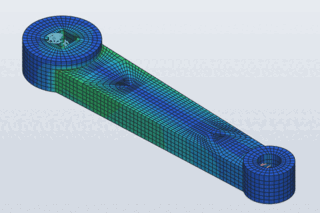
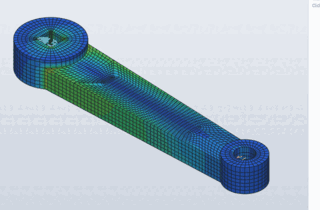
Docs: the crank's one-datum workflow, its gallery images and the Decompose status
examples.md and mcp.md tell the one-datum workflow and its numbers; the
crank gallery captures and Start card thumbnails are taken again on this
build; ROADMAP marks the automatic blocks of extruded cross-sections done,
and features.md's Decompose entry says what is left (3D parts).

Claude-Session: https://claude.ai/code/session_01UhhZMBTviDQxZvwnyP89fo

Changed region(s): [[0.0312, 0.0571, 0.9375, 0.9714], [0.9375, 0.2571, 1.0, 1.0]]

diff --git a/crates/engine/src/catalogue.rs b/crates/engine/src/catalogue.rs
@@ -325,7 +325,14 @@ pub static CATALOGUE: &[Capability] = &[
         "One mesh of a partitioned part, a method per cell (hex, tet, or all hex as conforming blocks); cells joined across partitions",
         &["mesh.hex.blocks"],
     ),
-    soon("mesh.hex.decompose", "Decompose", Mesh, "Structured Hex", "M5", "Find sweepable and mappable regions and propose the splits"),
+    soon(
+        "mesh.hex.decompose",
+        "Decompose",
+        Mesh,
+        "Structured Hex",
+        "M5",
+        "Find sweepable and mappable regions of 3D parts (extruded cross-sections are already cut into blocks by Hex Mesh)",
+    ),
     soon("mesh.transition", "Transition", Mesh, "Structured Hex", "M5", "Conforming tet–hex interfaces with pyramids"),
     ready(
         "mesh.hex.octree",

diff --git a/ROADMAP.md b/ROADMAP.md
@@ -31,7 +31,7 @@ pressure) is a degree of freedom of the existing DOF framework, not a separate s
 | M2 Tet meshing and size field | Size field (global, curvature and proximity; edge seeds done: `mesh.seed.edge` on persistent design edge names (`<face>|<face>`) with a count or size, geometric bias and an exact, min or free constraint, shown as ticks and under Mesh › Seeds, honoured by the hex sweep, extrude, revolve, mapped, blocks and cells meshers through interval assignment (conflicting exact seeds named) and by the tet mesher, which divides the edge at the seed's nodes and grades its size field from them; per-face seeds to do; the `fieldcraft_mesh::size::SizeField` trait and edge-division helpers are in); Bowyer–Watson Delaunay (exact, symbolic perturbation, verified; `fieldcraft-mesh::delaunay`, done); robust CDT boundary recovery (Diazzi et al. 2023: implicit LNC Steiner points on segments, gift-wrapping facet recovery, inside/outside labelling, B-rep face tags on boundary tet faces, flip repair of rounding (§5.1) checked by the validity gate; `fieldcraft-mesh::cdt` and `mesh.tet.generate`, done: all 20 valid corpus parts); quality stage (done: `fieldcraft-mesh::tet` — curvature-graded size field, edge-collapse coarsening, constrained Delaunay refinement with boundary points on the B-rep faces and curves, ODT smoothing, Klingner–Shewchuk improvement, tet4 and tet10 with mid-side nodes on the B-rep, quality report; one validity criterion shared by the gate and both solvers; the filleted-bracket fillet stress converges, tests/oracle); mesh verify per set | in progress |
 | M3 First deck | Sets and surfaces bound to SolidCraft face, edge, vertex and body names, resolved after meshing; materials (isotropic and orthotropic elastic, density) with a unit-system label and consistency check; sections (solid, shell, beam profiles) assigned by set; element formulation per region mapped to each solver; BCs (fixed, displacement, symmetry); loads (force and moment on reference points, pressure, gravity); reference points with kinematic and distributing coupling; steps (linear static, frequency) with explicit per-step load and BC tables and output presets; `model.check` naming every missing or bad item; `model.*` and `mesh.tag` commands (model definition: done); writers for Abaqus input (done: `deck.write`), Nastran SOL 101/103 (done: `deck.write`) and LS-DYNA implicit (done); the `.fieldcraft` file (text definition, binary mesh, geometry references reopened on load, journal; atomic saves, autosave and recovery; undo/redo on the journal: done) | in progress |
 | M4 Own solver and first results | Element library per docs/elements.md (1D and 2D first); Linear static and modal solver (tet4/10, wedge6, hex8, hex20; sparse direct, Lanczos), verified against analytic solutions (solver: done — `fieldcraft-fem` kernels, `fieldcraft-solver` with nested dissection, sparse Cholesky and block Lanczos, `solve.static`/`solve.frequency`/`solve.probe`, patch, cantilever, Lamé, Kirsch and beam-frequency tests; reference points with kinematic and distributing couplings and moments by master–slave constraint elimination, verified by rigid motion, clamping, Saint-Venant tension, bending and tube torsion; 1D elements I: rod2/rod3 trusses, point masses, rotary inertia, springs and dashpots in both solvers and all three decks, verified by the method of joints, the three-bar truss, spring–mass, two-mass chain and torsional pendulum frequencies, and damped decay; 2D elements: plane stress, plane strain and axisymmetric tri3, tri6, quad4 (incompatible modes QM6), quad8 with two degrees of freedom per node, centrifugal loads, `mesh.planar` 2D meshes of polygons and planar faces, verified by patch tests, Kirsch, Lamé (plane strain and axisymmetric), rotating discs and cylinders, and a plane stress cantilever; deck mapping to Abaqus CPS/CPE/CAX, Nastran membranes, LS-DYNA ELFORM 12/13); shells and beams (done: quad4 MITC4 and tri3 MITC3 flat shells with a Hughes–Brezzi drilling rotation, two-node Timoshenko beams with profile properties and orientations, six degrees of freedom at shell and beam nodes shared with solids and trusses, section forces and surface stresses, verified by shell patch tests, Navier's plate, cantilever and portal-frame beams, and the Scordelis–Lo and pinched-cylinder benchmarks); results display (done: `results.*` commands, deformed shape to scale, banded contours of displacement, von Mises, principal and component stresses with a legend, mode shapes with their frequencies and animation, probing a node by clicking it, reaction force and moment sums per set, stale results marked after an edit; explicit steps: field frames by slider or animation with contours per frame, energy histories plotted) | started |
-| M5 Structured hex | 2D quad meshing of faces (`fieldcraft-mesh::quad`: transfinite mapped meshes, free all-quad meshes of polygons with holes on prescribed boundary nodes, exact planar quad validity, shared `SizeField` and even edge divisions; done for planar faces); mapped hex of six-sided regions (trivariate TFI, curved faces) and sweep meshing (multi-level extrusions with imprinted cross-sections, revolutions, one-to-one sweeps through linking faces; interval assignment, hex8/hex20 on the geometry, B-rep face tags, `mesh.hex.generate`/`sweep`/`mapped`: done, 16 of 21 corpus parts all-hex); conforming interfaces between cells (done: `mesh.hex.blocks` meshes a part split with SolidCraft's Split Body into mapped blocks as one conforming mesh — composite faces for seams and tangent faces, interval assignment over all cells, shared faces meshed once, grading off holes and fillets, free-internal-face check; the filleted bracket in 30 cells, hex20 within 0.1 % of a fine tet10 tip deflection); partitions inside FieldCraft (done: datum planes and axes, `geometry.partition` cuts the open design by a datum plane, kept in the model and replayed when the design opens, the two faces of each cut paired by name); cells meshed each with its own method into one mesh (done: `mesh.cells` — hex where a method fits, else tet; matching interfaces merged node for node, others, such as hex next to tet, tied by dual mortar, verified by a tied hex–tet bar in tension to 1e-6); meshing half a symmetric part and mirroring it (done: `mesh.mirror` reflects hex8/hex20/tet4/tet10/wedge6 across a datum plane, right-handed, nodes on the plane merged, tags carried to the image half; a mirrored half bar equals the whole bar's mesh and bending deflection to 1e-12; samples `crank-arm` and `crank-mirror`: the half cut into seven cells, each swept structured, seeded to merge, and mirrored, scaled Jacobian ≥ 0.37; or solving the half: `model.boundary_condition.symmetry` on a datum plane, a half bar with half the load bends as the whole to 1e-11); three-sided sweep regions mapped as triangle primitives (done: midpoint subdivision, dominance constraints in interval assignment); pyramid transitions; automatic decomposition into sweepable and mappable regions, proposed as SolidCraft splits | started |
+| M5 Structured hex | 2D quad meshing of faces (`fieldcraft-mesh::quad`: transfinite mapped meshes, free all-quad meshes of polygons with holes on prescribed boundary nodes, exact planar quad validity, shared `SizeField` and even edge divisions; done for planar faces); mapped hex of six-sided regions (trivariate TFI, curved faces) and sweep meshing (multi-level extrusions with imprinted cross-sections, revolutions, one-to-one sweeps through linking faces; interval assignment, hex8/hex20 on the geometry, B-rep face tags, `mesh.hex.generate`/`sweep`/`mapped`: done, 16 of 21 corpus parts all-hex); conforming interfaces between cells (done: `mesh.hex.blocks` meshes a part split with SolidCraft's Split Body into mapped blocks as one conforming mesh — composite faces for seams and tangent faces, interval assignment over all cells, shared faces meshed once, grading off holes and fillets, free-internal-face check; the filleted bracket in 30 cells, hex20 within 0.1 % of a fine tet10 tip deflection); partitions inside FieldCraft (done: datum planes and axes, `geometry.partition` cuts the open design by a datum plane, kept in the model and replayed when the design opens, the two faces of each cut paired by name); cells meshed each with its own method into one mesh (done: `mesh.cells` — hex where a method fits, else tet; matching interfaces merged node for node, others, such as hex next to tet, tied by dual mortar, verified by a tied hex–tet bar in tension to 1e-6); meshing half a symmetric part and mirroring it (done: `mesh.mirror` reflects hex8/hex20/tet4/tet10/wedge6 across a datum plane, right-handed, nodes on the plane merged, tags carried to the image half; a mirrored half bar equals the whole bar's mesh and bending deflection to 1e-12; samples `crank-arm` and `crank-mirror`: one datum, the half extruded in automatic blocks and mirrored, scaled Jacobian ≥ 0.37; or solving the half: `model.boundary_condition.symmetry` on a datum plane, a half bar with half the load bends as the whole to 1e-11); three-sided sweep regions mapped as triangle primitives (done: midpoint subdivision, dominance constraints in interval assignment); automatic blocks of extruded cross-sections (done: `hex::decompose` — holes separated, O-grids, cuts from concave corners and fillets chosen by block quality, kept only when no worse than the free mesh; nothing added to the model); pyramid transitions; automatic decomposition of 3D parts into sweepable and mappable regions | started |
 | M6 Automatic hex | Octree/grid all-hex for any part (first version: done — `fieldcraft-mesh::octree`, `mesh.hex.octree`: 3-refinement grid with conforming templates refined by curvature, thickness and narrow faces, a core cleared to a manifold boundary, feature map onto it, padding and a pillow per patch capturing every sharp curve, foldover-free fitting, certified validity, B-rep face tags; the corpus hex column and the filleted-bracket oracle case; next: transitions for concave refined regions so thin and curved parts stop over-refining); hex-dominant by tet recombination; polycube for blocky parts; layers through thin walls; mesh editing and orphan-mesh import | started |
 | M7 Assemblies, contact and friction | Needs M15. Part instances from SolidCraft occurrences; tie between non-matching meshes (mortar: done — `interaction.tie`, dual mortar constraints in the implicit analyses, Abaqus `*TIE` and LS-DYNA tied contact, the tie patch test); implicit contact: surface-to-surface mortar and node-to-surface, penalty and augmented Lagrange, self-contact, automatic pair detection (mortar contact pairs with Coulomb friction in nonlinear static steps: done — segment-to-segment mortar with the consistent tangent by automatic differentiation of the segmentation, augmented Lagrangian with Uzawa updates to a gap tolerance, semismooth active set with a chattering cutback, small sliding without nonlinear geometry and finite sliding with it, overclosure adjusted or refused, Coulomb friction (stick/slip return map, static and kinetic coefficients, symmetrised tangent), pressure, gap, status, shear and slip output; verified by the contact patch test, Hertz cylinder and sphere, Newton's quadratic rate and sliding blocks; the linear analyses refuse contact by name); friction: Coulomb with stick–slip, static/kinetic, anisotropic, pressure-, rate- and temperature-dependent coefficients; contact output (pressure, slip, status); thermal contact conductance and frictional heating; wear (Archard); bolt pretension, connectors with behaviour (elastic, damped, stops, locks); amplitudes, multiple steps, restart; nonlinear steps in all three decks. Verified by Hertz (sphere and cylinder), the Cattaneo–Mindlin partial-slip problem, the sliding block, NAFEMS contact benchmarks | started |
 | M8 Materials, explicit, shells, composites | Plasticity, hyperelasticity, damage data per solver; explicit dynamics decks (Abaqus/Explicit, LS-DYNA); midsurface shells; composite layups and material orientations, continuum shells on swept hex; hybrid (mixed u–p) hex8/hex20/tet10 for nearly incompressible materials (done); heat transfer (solids done: steady and θ-method transient conduction with flux, convection and sources, thermal strain in static steps (solids and 2D) and explicit dynamics (with plasticity), coupled temperature–displacement, `solve.heat`; deck output, 2D/shell/beam conduction planned) | started |

diff --git a/docs/examples.md b/docs/examples.md
@@ -121,7 +121,7 @@ links made with it still open): seen from below, where the pocket is. How the ha
 meshed and mirrored is told under `crank-arm`.
 
 **Look at:** the pocket from below: straight mapped rows along its sides and floor, and at each
-end its corner fillets cut off by the diagonal partitions into three-sided triangle primitives;
+end its corner fillets as three-sided triangle primitives, cut off by the mesher's own blocks;
 the two halves, mirror images across the arm's middle.
 
 **Check:** as `crank-arm`.
@@ -140,27 +140,25 @@ arm's top face, where any hex is degenerate). 6061-T6 (E = 68 900 MPa, ν = 0.33
 bore's faces fixed, 1500 N on the pedal hole in the crank's plane, across the arm (−y). Linear
 static: about 5 s to open and 7 s to solve.
 
-The mesh is built as an analyst builds a structured one. A datum plane on the symmetry plane
-(`Sym`, y = 0) partitions the crank (`Half`); the half `CrankArm/a` is cut into seven cells:
-across the arm at x = 30 (the root, beyond the spindle boss), 60 and 110 (the pocket's straight
-middle) and 148 (before the pedal boss), and on two diagonals (`D1`, `D2`) through the centres
-of the pocket's corner fillets, radial to them so they meet the pocket wall square. Every
-cell's cross-section then splits into regions that map: the half ring round each bore (an
-O-grid), four-sided blocks (transfinite), and the pocket's four corners, three-sided, as
-triangle primitives. Exact edge seeds (`mesh.seed.edge`) give every cut the same divisions on
-its two sides, so `mesh.cells` sweeps each cell (`extrude`, hex20 of 3 mm) and merges all six
-cuts node for node, and `mesh.mirror` reflects the half onto `CrankArm/b`: 7 710 hex20
-elements, 37 938 nodes, all valid, scaled Jacobian min 0.37, mean 0.92, edge ratio at most 7.0
-(the swept crank before: min 0.17, its free-paved middle at the pocket the worst).
+The mesh needs one datum. A datum plane on the symmetry plane (`Sym`, y = 0) partitions the
+crank (`Half`); `mesh.hex.generate` extrudes the half `CrankArm/a` (hex20 of 3 mm) and cuts its
+cross-section into mappable blocks itself, inside the mesher (nothing is added to the model):
+the half ring round each bore as four-sided blocks, the pocket's R5 corners as three-sided
+triangle primitives, and four-sided blocks along the arm, split where the pocket's fillets meet
+it. Interval assignment gives every block's sides matching counts, with no seeds.
+`mesh.mirror` reflects the half onto `CrankArm/b`: 8 664 hex20 elements, all valid, scaled
+Jacobian min 0.37 (at the corners where the root arcs meet the bosses 20° off tangent), mean
+0.91. Before the mesher cut blocks itself the same crank took seven partitions and eleven exact
+seeds for 0.37 (and the swept half without them: min 0.009, its middle free-paved).
 
 **Look at:** the mesh (Prepare ▸ Mesh): rows running straight along the arm, the O-grids round
 the bores, eight layers through the arm, and the von Mises contours: the bending stress grows
-along the arm toward the root; the peak, 145 MPa, sits at a square-bore corner where the rigid
+along the arm toward the root; the peak, 117 MPa, sits at a square-bore corner where the rigid
 clamp meets the free face, a support singularity.
 
-**Check:** σxx on the arm's sides at x = 29 mm is −62.43 and +62.43 MPa, equal and opposite as
+**Check:** σxx on the arm's sides at x = 29 mm is −62.44 and +62.44 MPa, equal and opposite as
 the mirror-image halves are, against the beam formula
-M/Z = 1500 · 141 / (16 · 35.6² / 6) = 62.6 MPa (0.3 %); a 41 815-element tet10 solution of the
+M/Z = 1500 · 141 / (16 · 35.6² / 6) = 62.6 MPa (0.25 %); a 41 815-element tet10 solution of the
 full part gives 62.3 MPa. The pedal bore moves 0.75 mm down (tet10: 0.70–0.75 mm; Euler–Bernoulli
 with a rigid clamp: 0.58 mm, without shear or the boss's compliance), and the spindle carries the
 whole 1500 N and 255 N·m.

diff --git a/docs/mcp.md b/docs/mcp.md
@@ -128,7 +128,9 @@ and `mesh` (each one's parameters: `list_commands`):
    `partition:<name>:a` and `partition:<name>:b`; every other face keeps the name of the face it
    is a piece of. The partition is part of the model: saving and opening it, or opening the
    design again after an edit, cuts the design again. `inspect_model` lists the cells.
-3. `mesh` with method `hex`, `hex_sweep`, `hex_mapped` or `tet` on one cell (`{"body":
+3. `mesh` with method `hex` on an extruded cell needs no further cuts: its cross-section is cut
+   into mappable blocks inside the mesher (O-grids round holes, triangle primitives at fillets,
+   four-sided blocks), so a symmetric part takes one datum. Or `mesh` with method `hex`, `hex_sweep`, `hex_mapped` or `tet` on one cell (`{"body":
    "Part/b"}`), or method `cells` for all cells with a method each (`{"methods": {"Part/a":
    "tet"}, "default": "auto"}`): cells whose faces match on a partition are merged, others are
    tied (the reply lists each interface).
@@ -138,7 +140,8 @@ and `mesh` (each one's parameters: `list_commands`):
 5. Or keep the half: `model.boundary_condition.symmetry {name, datum}` holds it on the plane
    (zero normal displacement), with half the load.
 
-`file.sample {"name": "crank-mirror"}` opens the crank arm built this way (docs/examples.md).
+`file.sample {"name": "crank-mirror"}` opens the crank arm built this way: one datum (`Sym`), its
+partition, `hex` on the half and `mirror` (docs/examples.md).
 
 ## Edge seeds
 

diff --git a/docs/features.md b/docs/features.md
@@ -37,7 +37,7 @@ the control channel and AI agents over MCP (docs/mcp.md) run the same commands.
 | Structured Hex | Quad Faces — All-quad meshes of faces on shared edge nodes | coming soon (M5) |  |
 | Structured Hex | Hex Mesh — Structured hex mesh of a body: automatic, or extruded, swept, revolved or mapped (the Method drop-down) | ready | `mesh.hex.generate`, (`mesh.hex.sweep`), (`mesh.hex.mapped`) |
 | Structured Hex | Partitioned Mesh — One mesh of a partitioned part, a method per cell (hex, tet, or all hex as conforming blocks); cells joined across partitions | ready | `mesh.cells`, (`mesh.hex.blocks`) |
-| Structured Hex | Decompose — Find sweepable and mappable regions and propose the splits | coming soon (M5) |  |
+| Structured Hex | Decompose — Find sweepable and mappable regions of 3D parts (extruded cross-sections are already cut into blocks by Hex Mesh) | coming soon (M5) |  |
 | Structured Hex | Transition — Conforming tet–hex interfaces with pyramids | coming soon (M5) |  |
 | Automatic Hex | Octree Hex — Unstructured all-hex mesh of any part: adaptive grid, boundary layers on every sharp edge, untangled and proven valid | ready | `mesh.hex.octree` |
 | Automatic Hex | Hex-Dominant — Hex-dominant mesh by recombining tets | coming soon (M6) |  |
